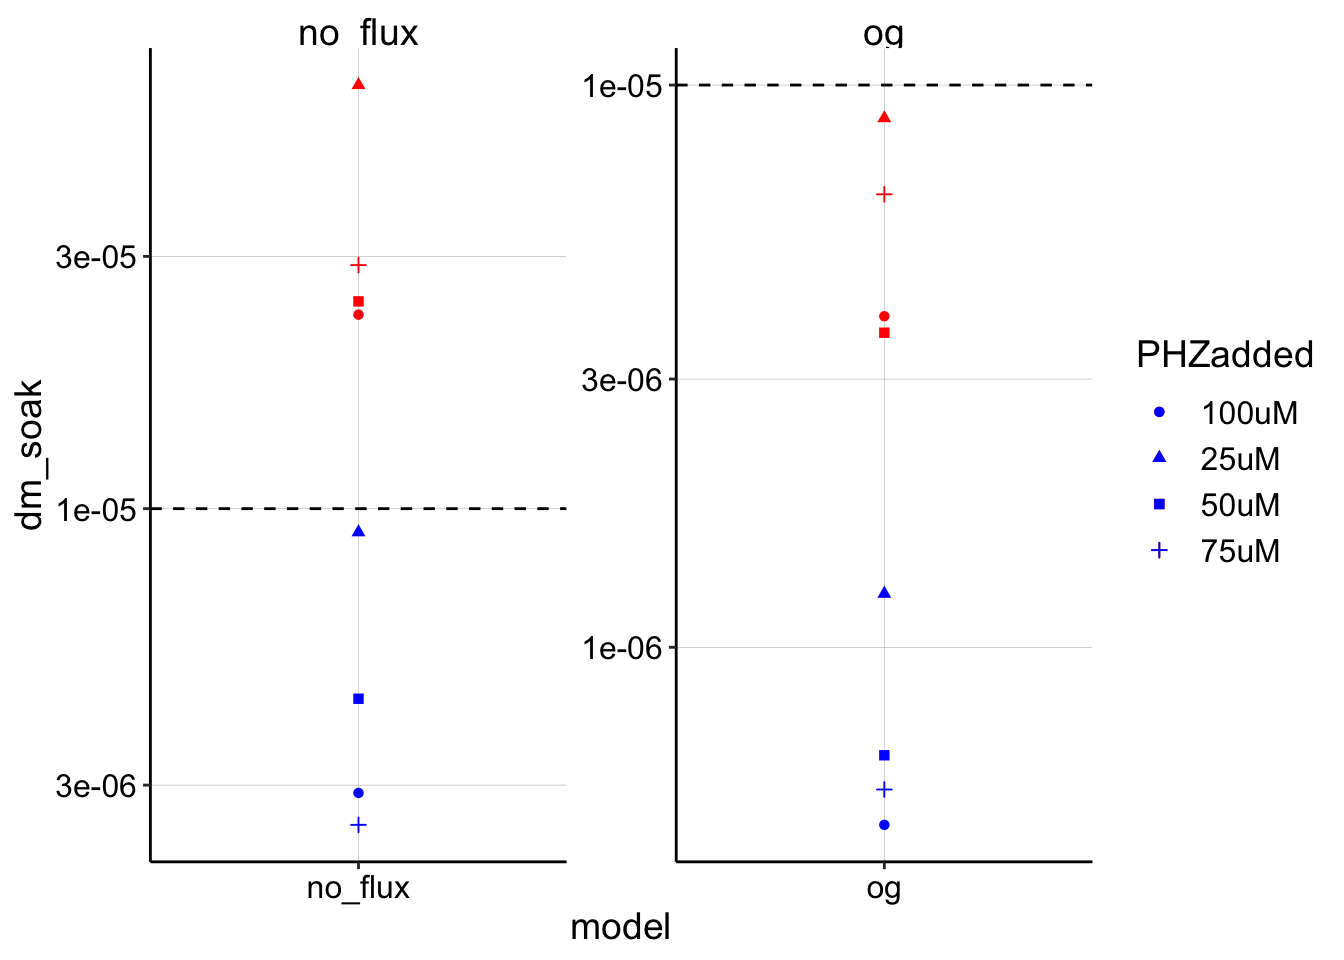
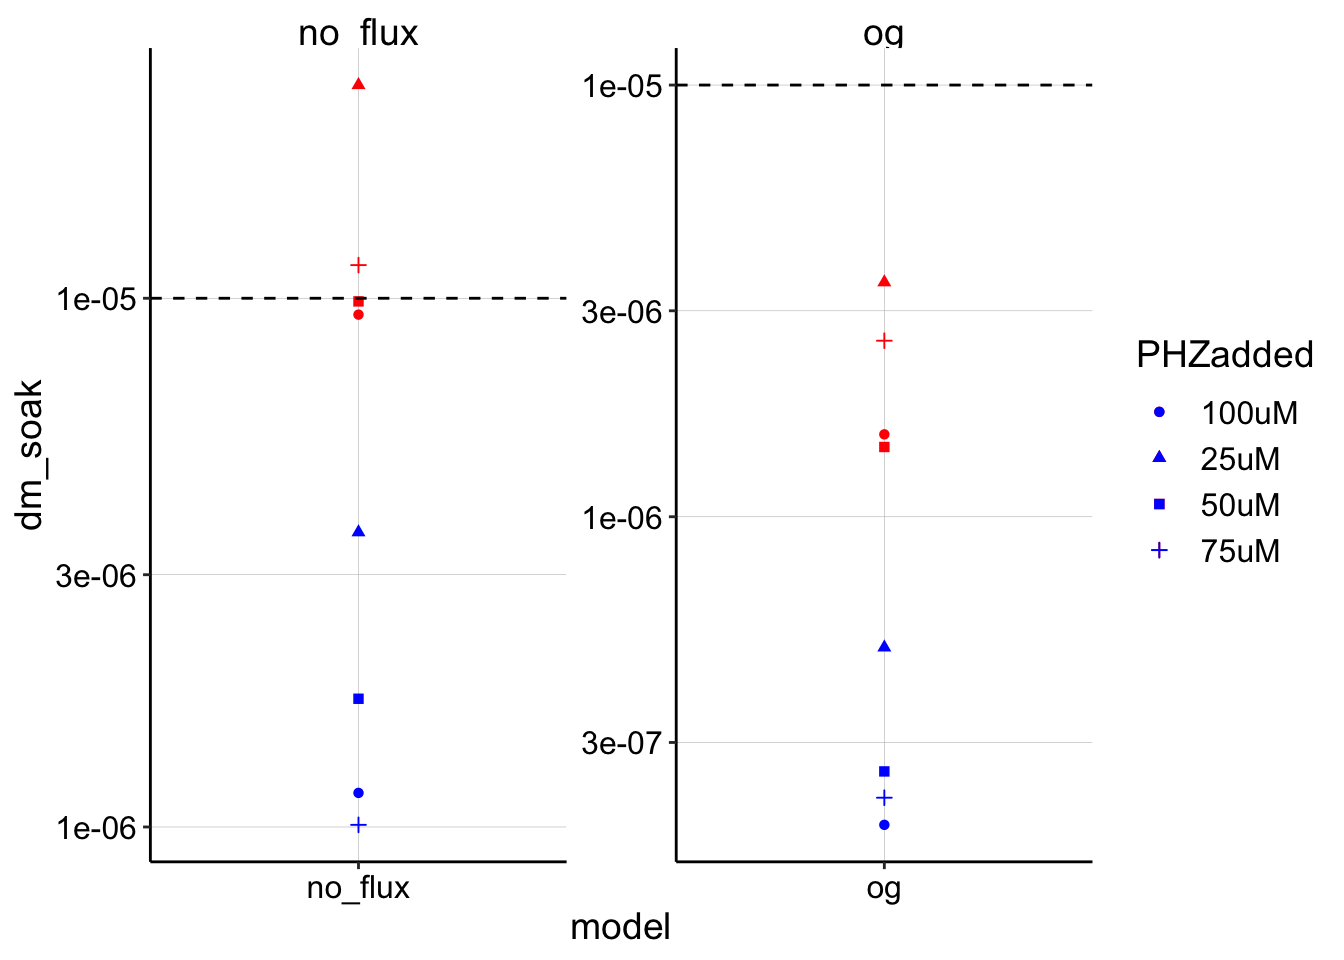
updated dm t_s

diff --git a/IDA/01_17_19_psoralen_nonequil_2/Analysis/01_17_19_psoralen_nonequil_2_Dm_analysis.html b/IDA/01_17_19_psoralen_nonequil_2/Analysis/01_17_19_psoralen_nonequil_2_Dm_analysis.html
@@ -425,16 +425,16 @@ ggplot(blank_estimates_tidy, aes(x = model, shape = PHZadded)) +
 <p>For the SWV fast parameter set we use: * Init E (V) = 0.1 * Final E (V) = -0.5 * Incr E (V) = 0.001 * Amplitude (V) = 0.025 * Frequency (Hz) = 300</p>
 <p>Therefore the scan window is 0.6V or 600mV, with a 1mV increment will require 600 cycles. 1 cycle takes 1/frequency or 1/300 seconds. 1/300 seconds * 600 cycles = 2 seconds for the total scan time. If the electrode is actually only driving a reaction from -0.2V to -0.4V (200mV) that would be 1/3 * 2 seconds = 0.666 seconds. However, the peak is reached in half that amount of time ( 0.333 seconds). That said, each cycle is partially renewing the diffusion layer for each redox species because the amplitude is 25mV.</p>
 <p>Only, starting 12.5mV before PYO redox potential there’s net reduction occuring? 12 cycles would be 12 / 300 = 0.04 seconds (but that includes up and down steps), but even after those steps, most of the PYO is re-oxidized by the downward step. So for the one step up at the peak the scan time would be the pulse time <span class="math inline">\(t_p\)</span>, which is 1/2 * 1/300 = 0.001666, if we take that time over 12 cyles we get ~0.02…which empirically provides the expected results, not sure how to proceed.</p>
-<p>All this is to say, that I do not know how to theoretically get at the scan time, and as far as I know now anything between 0.3 and 0.001 seconds could probably be justified…See below for how the blank data look when we use an empirically “good” value of <span class="math inline">\(t_s = 0.02\)</span>:</p>
+<p>All this is to say, that I do not know how to theoretically get at the scan time, and as far as I know now anything between 0.3 and 0.001 seconds could probably be justified…See below for how the blank data look when we use an empirically “good” value of <span class="math inline">\(t_s = 0.008\)</span>:</p>
 <pre class="r"><code>blank_estimates_og &lt;- blank_estimates %&gt;% filter(model == &quot;og&quot;) %&gt;% 
     mutate(dm_soak = dm_from_a_OG(estimate = estimate, i_0 = i0_soak, 
-        dap = 1e-05, t_s = 0.02)) %&gt;% mutate(dm_transfer = dm_from_a_OG(estimate = estimate, 
-    i_0 = i0_transfer, dap = 1e-05, t_s = 0.02))
+        dap = 1e-05, t_s = 0.008)) %&gt;% mutate(dm_transfer = dm_from_a_OG(estimate = estimate, 
+    i_0 = i0_transfer, dap = 1e-05, t_s = 0.008))
 
 blank_estimates_noFlux &lt;- blank_estimates %&gt;% filter(model == 
     &quot;no_flux&quot;) %&gt;% mutate(dm_soak = dm_from_a_noFlux(estimate = estimate, 
-    i_0 = i0_soak, dap = 1e-05, t_s = 0.02)) %&gt;% mutate(dm_transfer = dm_from_a_noFlux(estimate = estimate, 
-    i_0 = i0_transfer, dap = 1e-05, t_s = 0.02))
+    i_0 = i0_soak, dap = 1e-05, t_s = 0.008)) %&gt;% mutate(dm_transfer = dm_from_a_noFlux(estimate = estimate, 
+    i_0 = i0_transfer, dap = 1e-05, t_s = 0.008))
 
 blank_estimates_tidy &lt;- rbind(blank_estimates_og, blank_estimates_noFlux)
 
@@ -442,17 +442,17 @@ ggplot(blank_estimates_tidy, aes(x = model, shape = PHZadded)) +
     geom_point(aes(y = dm_soak), color = &quot;red&quot;) + geom_point(aes(y = dm_transfer), 
     color = &quot;blue&quot;) + geom_hline(yintercept = 1e-05, linetype = 2) + 
     facet_wrap(~model, scales = &quot;free&quot;) + scale_y_log10()</code></pre>
-<p><img src="01_17_19_psoralen_nonequil_2_Dm_analysis_files/figure-html/unnamed-chunk-11-1.png" width="672" style="display: block; margin: auto;" /> Now both models have the expected behavior. The no flux/finite model estimates straddle the given <span class="math inline">\(D_{ap}\)</span>, where the soak <span class="math inline">\(I_0\)</span> estimates are true overestimates and the transfer <span class="math inline">\(I_0\)</span> estimates are true underestimates. Further, the og model now significantly underestimates <span class="math inline">\(D_m\)</span> as would be expected from the poor fit of the data.</p>
+<p><img src="01_17_19_psoralen_nonequil_2_Dm_analysis_files/figure-html/unnamed-chunk-11-1.png" width="672" style="display: block; margin: auto;" /> Now both models have the expected behavior. The no flux/finite model estimates straddle the given <span class="math inline">\(D_{ap}\)</span>. The soak <span class="math inline">\(I_0\)</span> estimates in this case are the true <span class="math inline">\(I_0\)</span> values, while the transfer <span class="math inline">\(I_0\)</span> estimates are underestimates. Further, the og model now significantly underestimates <span class="math inline">\(D_m\)</span> as would be expected from the poor fit of the data.</p>
 <p>I do not know if we can justify the use of an empirical value for <span class="math inline">\(t_s\)</span> by saying that we expect at a blank IDA with PYO in solution we assume <span class="math inline">\(D_m \approx D_{ap}\)</span> with some citations? If we can, then let’s see what the biofilm data would look like with this parameter set.</p>
 <pre class="r"><code>dm_estimates_og &lt;- dm_estimates %&gt;% filter(model == &quot;og&quot;) %&gt;% 
     mutate(dm_soak = dm_from_a_OG(estimate = estimate, i_0 = i0_soak, 
-        dap = 1e-06, t_s = 0.02)) %&gt;% mutate(dm_transfer = dm_from_a_OG(estimate = estimate, 
-    i_0 = i0_transfer, dap = 1e-06, t_s = 0.02))
+        dap = 1e-06, t_s = 0.008)) %&gt;% mutate(dm_transfer = dm_from_a_OG(estimate = estimate, 
+    i_0 = i0_transfer, dap = 1e-06, t_s = 0.008))
 
 dm_estimates_noFlux &lt;- dm_estimates %&gt;% filter(model == &quot;no_flux&quot;) %&gt;% 
     mutate(dm_soak = dm_from_a_noFlux(estimate = estimate, i_0 = i0_soak, 
-        dap = 1e-06, t_s = 0.02)) %&gt;% mutate(dm_transfer = dm_from_a_noFlux(estimate = estimate, 
-    i_0 = i0_transfer, dap = 1e-06, t_s = 0.02))
+        dap = 1e-06, t_s = 0.008)) %&gt;% mutate(dm_transfer = dm_from_a_noFlux(estimate = estimate, 
+    i_0 = i0_transfer, dap = 1e-06, t_s = 0.008))
 
 dm_estimates_tidy &lt;- rbind(dm_estimates_og, dm_estimates_noFlux)
 
@@ -460,7 +460,7 @@ ggplot(dm_estimates_tidy, aes(x = model, shape = electrode)) +
     geom_point(aes(y = dm_soak), color = &quot;red&quot;) + geom_point(aes(y = dm_transfer), 
     color = &quot;blue&quot;) + geom_hline(yintercept = 1e-06, linetype = 2) + 
     facet_wrap(~run) + scale_y_log10(limits = c(1e-09, 1e-06))</code></pre>
-<p><img src="01_17_19_psoralen_nonequil_2_Dm_analysis_files/figure-html/unnamed-chunk-12-1.png" width="672" style="display: block; margin: auto;" /> By using this 0.02 value for <span class="math inline">\(t_s\)</span> you can see that the estimates for the biofilm <span class="math inline">\(D_m\)</span> shift downward. If this process is defensible then we may have a case that <span class="math inline">\(D_m\)</span> could be slower than <span class="math inline">\(D_{ap}\)</span> in the biofilm.</p>
+<p><img src="01_17_19_psoralen_nonequil_2_Dm_analysis_files/figure-html/unnamed-chunk-12-1.png" width="672" style="display: block; margin: auto;" /> By using this 0.008 value for <span class="math inline">\(t_s\)</span> you can see that the estimates for the biofilm <span class="math inline">\(D_m\)</span> shift downward. If this process is defensible then we may have a case that <span class="math inline">\(D_m\)</span> could be slower than <span class="math inline">\(D_{ap}\)</span> in the biofilm. Also note that run 5 had the better fit at the beginning, so I would trust that estimate slightly more than run 4.</p>
 </div>
 </div>
 <div id="conclusions" class="section level1">
@@ -486,10 +486,16 @@ ggplot(dm_estimates_tidy, aes(x = model, shape = electrode)) +
 </ol>
 <ul>
 <li>The value of <span class="math inline">\(t_s\)</span> is proportional to the estimate of <span class="math inline">\(D_m\)</span>, but I can only pin down <span class="math inline">\(t_s\)</span> to a range of two orders of magnitude in theory, because I don’t really know how to extrapolate from the complex SWV potential vs. time wave.</li>
-<li>If we assume for the blank IDA that <span class="math inline">\(D_m \approx D_{ap}\)</span>, then empirically <span class="math inline">\(t_s \approx 0.02 \text{ sec}\)</span> provides a good estimate. <strong>I am not sure if this will be considered legit enough…</strong></li>
+<li>If we assume for the blank IDA that <span class="math inline">\(D_m \approx D_{ap}\)</span>, then empirically <span class="math inline">\(t_s \approx 0.008 \text{ sec}\)</span> provides a good estimate. <strong>I am not sure if this will be considered legit enough…</strong></li>
 <li>If we accept that <span class="math inline">\(t_s\)</span> estimate as reasonable, then it does seem like this dataset for the control biofilm shows a <span class="math inline">\(D_m\)</span> well below the given <span class="math inline">\(D_{ap}\)</span></li>
 </ul>
-<p>Moving forward, let’s get feedback on estimating <span class="math inline">\(t_s\)</span>, and we should probably talk to someone about more clearly/rigorously deriving the finite diffusion model.</p>
+<p><strong>Next Steps:</strong></p>
+<ul>
+<li>Apply analysis to all three biofilm replicates</li>
+<li>Gain confidence with finite model / derivation (help from math people?)</li>
+<li>Decide how to proceed with <span class="math inline">\(t_s\)</span> (get feedback)</li>
+</ul>
+<hr />
 </div>
 
 
